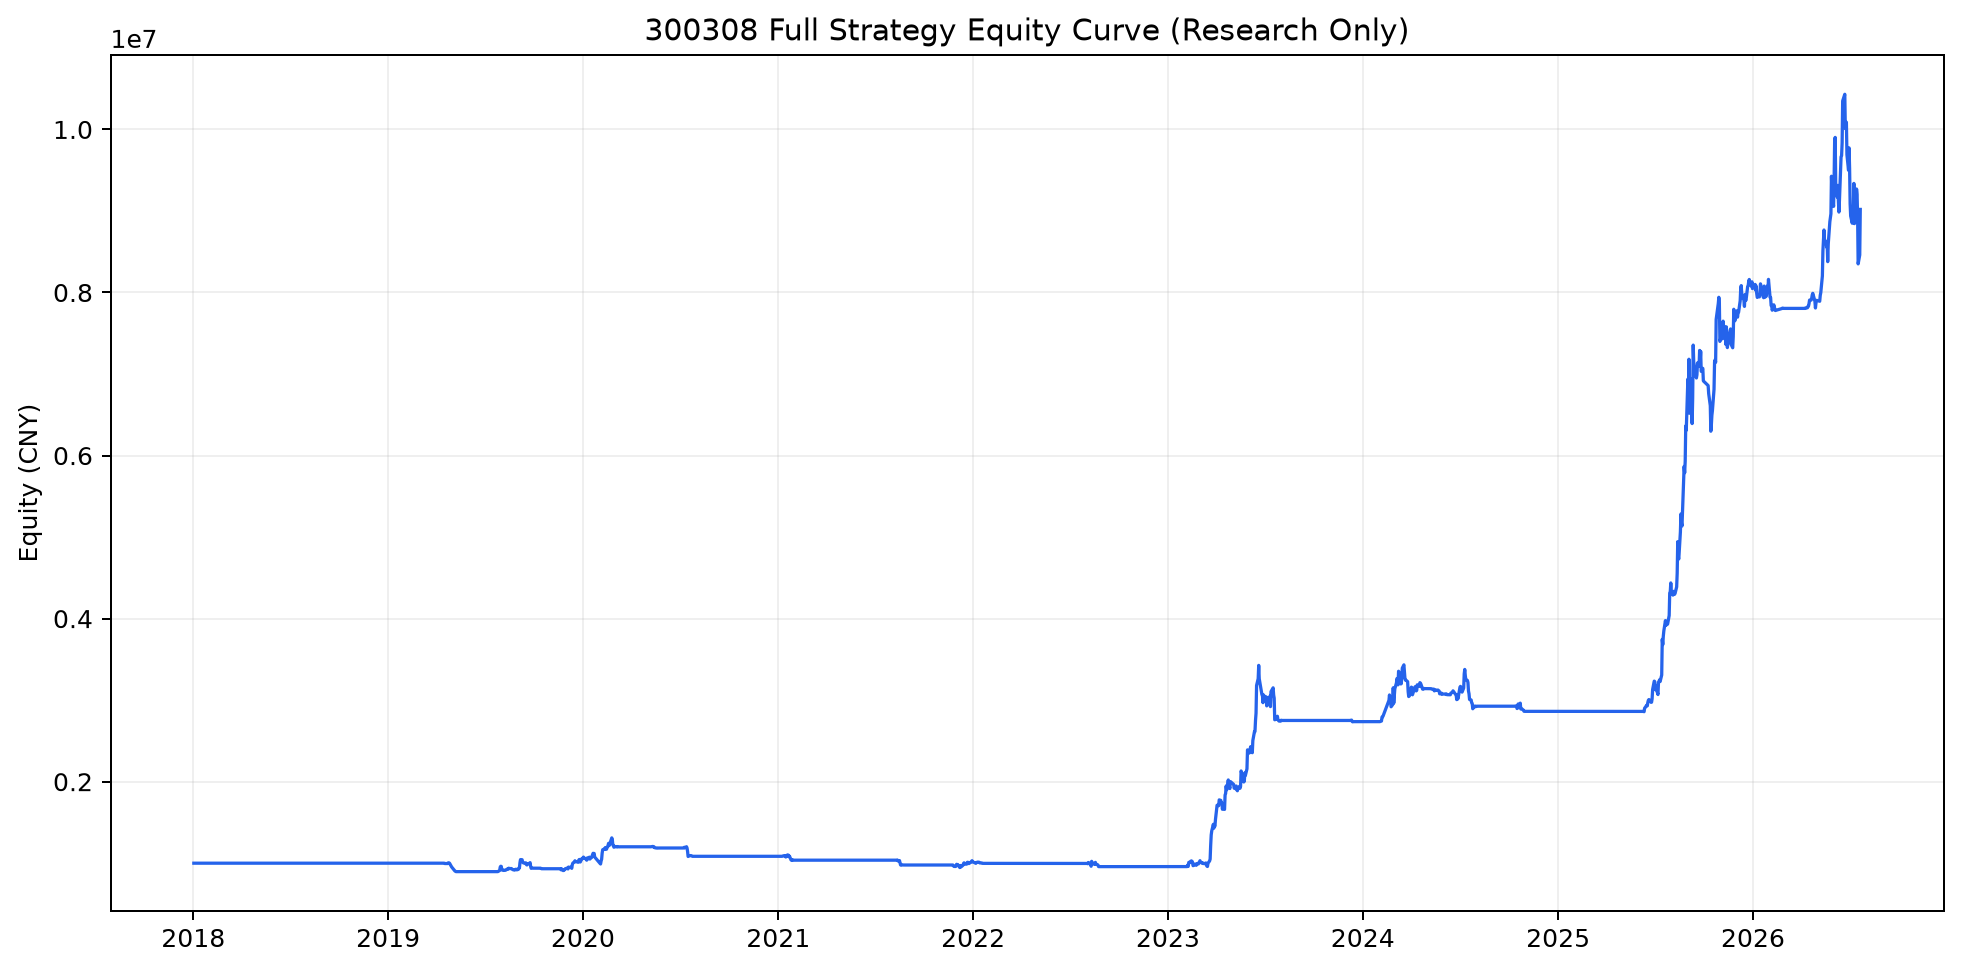
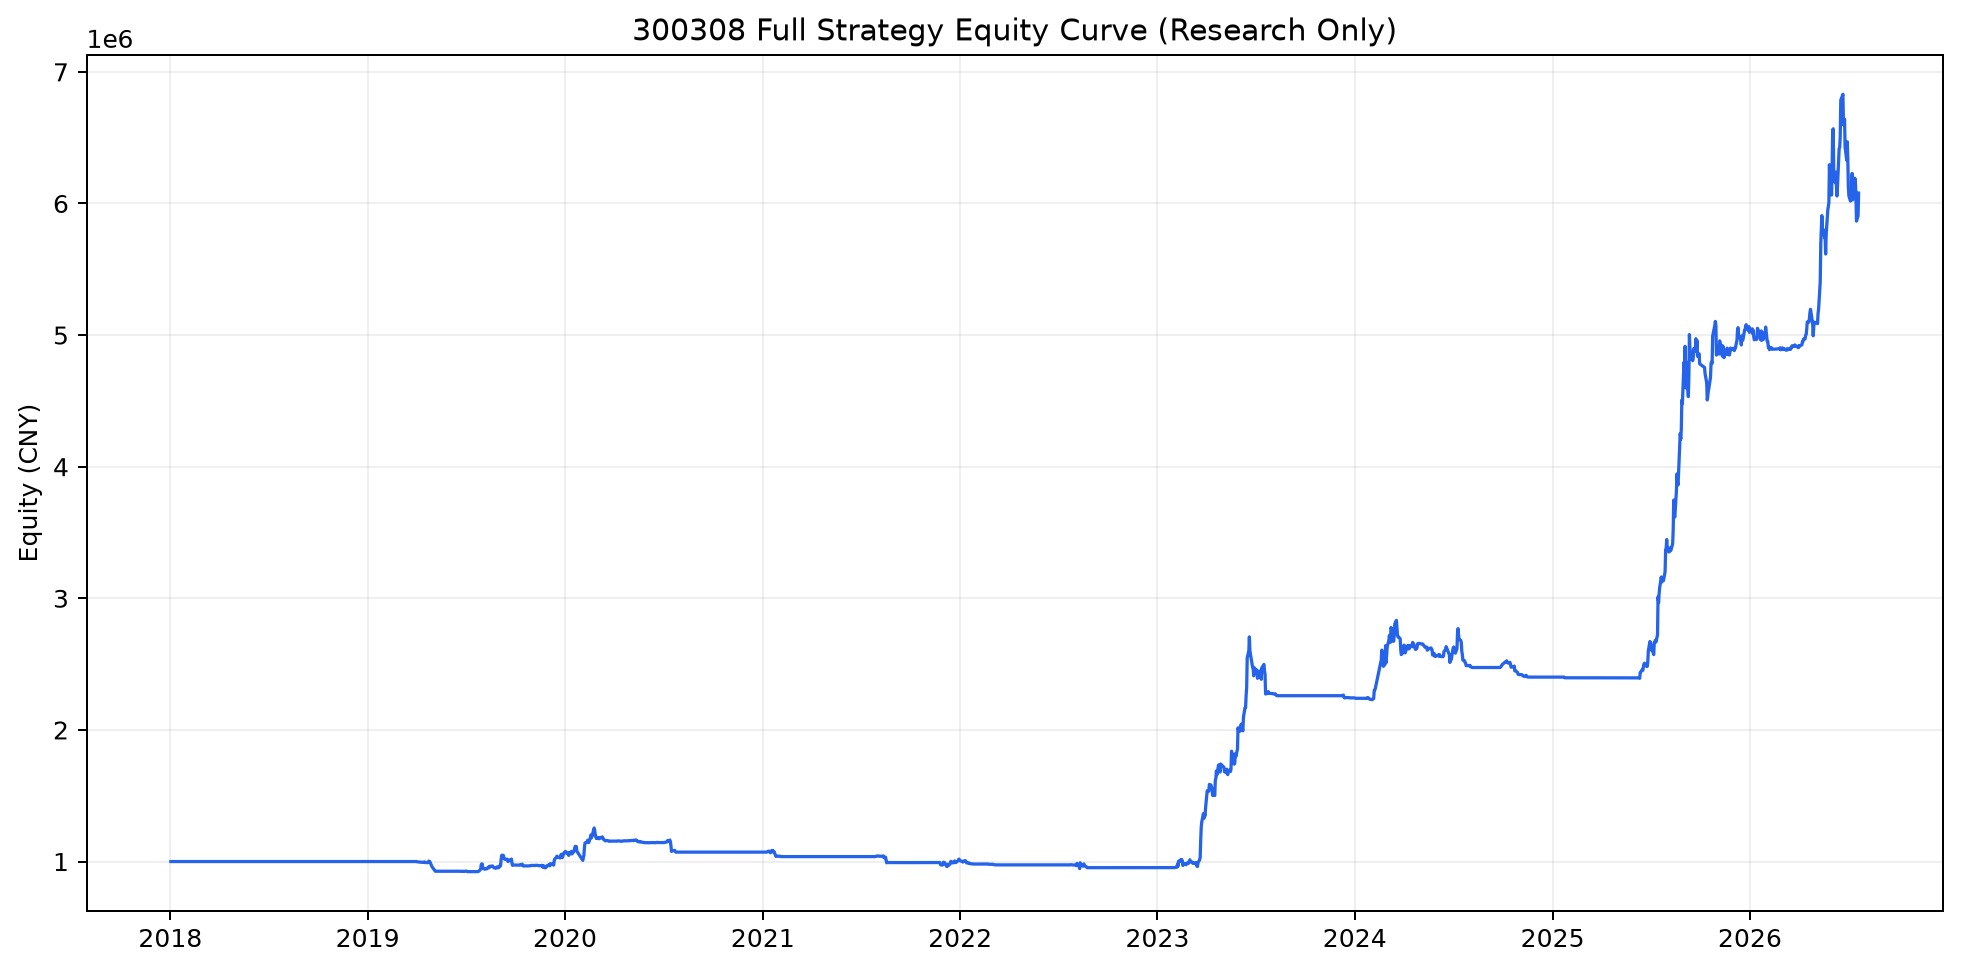
feat: keep minimum observation position

diff --git a/src/ai_market_regime/stock_scoring.py b/src/ai_market_regime/stock_scoring.py
@@ -109,15 +109,25 @@ def _filter_rebalances(targets: pd.Series, threshold: float) -> pd.Series:
     previous = 0.0
     for target in targets.fillna(0.0):
         target_value = float(target)
-        if abs(target_value - previous) >= threshold:
+        if (
+            (previous <= 0.0 < target_value)
+            or (target_value <= 0.0 < previous)
+            or abs(target_value - previous) >= threshold
+        ):
             previous = target_value
         filtered.append(previous)
     return pd.Series(filtered, index=targets.index, dtype=float)
 
 
-def _position_conclusion(position: float, raw_position: float) -> str:
+def _position_conclusion(
+    position: float,
+    raw_position: float,
+    minimum_observation_position: float,
+) -> str:
     if position <= 0:
-        return "空仓/观望"
+        return "极端风险清仓"
+    if position <= minimum_observation_position:
+        return "最低观察仓"
     if position < raw_position:
         return "风险减仓"
     if position <= 0.30:
@@ -136,8 +146,11 @@ def combine_market_and_stock_scores(
 
     frame = market_scores.join(stock_scores, how="left")
     frame["Market_Position_Cap"] = frame["Target_Position"]
+    observation_floor = frame["Market_Position_Cap"].clip(
+        upper=config.minimum_observation_position
+    ).fillna(0.0)
     frame["Raw_Target_Position"] = frame["Market_Position_Cap"].where(
-        frame["Trend_Eligible"].fillna(False), 0.0
+        frame["Trend_Eligible"].fillna(False), observation_floor
     )
     frame["Risk_Adjusted_Position"] = frame["Raw_Target_Position"].fillna(0.0)
 
@@ -145,6 +158,9 @@ def combine_market_and_stock_scores(
     exit_mask = frame["Drawdown60"] <= -config.drawdown_exit_at
     long_trend_exit = frame["close"] < frame["MA120"]
     frame.loc[reduce_mask, "Risk_Adjusted_Position"] *= config.drawdown_reduced_multiplier
+    frame["Risk_Adjusted_Position"] = frame["Risk_Adjusted_Position"].clip(
+        lower=observation_floor
+    )
     frame.loc[exit_mask | long_trend_exit, "Risk_Adjusted_Position"] = 0.0
     frame["Risk_Adjusted_Position"] = frame["Risk_Adjusted_Position"].clip(
         0.0, config.max_target_position
@@ -159,7 +175,11 @@ def combine_market_and_stock_scores(
     risk_rule.loc[exit_mask] = "60日回撤清仓"
     frame["Risk_Rule"] = risk_rule
     frame["Position_Conclusion"] = [
-        _position_conclusion(float(position), float(raw))
+        _position_conclusion(
+            float(position),
+            float(raw),
+            config.minimum_observation_position,
+        )
         for position, raw in zip(
             frame["Final_Target_Position"], frame["Raw_Target_Position"].fillna(0.0)
         )

diff --git a/tests/test_scoring.py b/tests/test_scoring.py
@@ -15,9 +15,10 @@ from ai_market_regime.stock_scoring import build_stock_scores, combine_market_an
 
 
 def test_position_boundaries_and_single_stock_cap():
-    scores = pd.Series([75.0, 74.9, 60.0, 59.9, 45.0, 44.9, np.nan])
-    pd.testing.assert_series_equal(regime_cap_from_score(scores), pd.Series([1.0, 0.7, 0.7, 0.3, 0.3, 0.0, np.nan]))
-    pd.testing.assert_series_equal(position_from_score(scores, maximum=0.8), pd.Series([0.8, 0.7, 0.7, 0.3, 0.3, 0.0, np.nan]))
+    scores = pd.Series([75.0, 74.9, 60.0, 59.9, 45.0, 44.9, 30.0, 29.9, np.nan])
+    expected = pd.Series([0.65, 0.50, 0.50, 0.25, 0.25, 0.10, 0.10, 0.05, np.nan])
+    pd.testing.assert_series_equal(regime_cap_from_score(scores), expected)
+    pd.testing.assert_series_equal(position_from_score(scores), expected)
 
 
 def test_rolling_percentile_uses_trailing_values():
@@ -42,7 +43,7 @@ def test_scores_are_bounded_and_recent_listing_is_supported():
     valid = scores["AI_SCORE"].dropna()
     assert not valid.empty
     assert valid.between(0, 100).all()
-    assert scores["Target_Position"].dropna().between(0, 0.8).all()
+    assert scores["Target_Position"].dropna().between(0.05, 0.65).all()
     assert pd.notna(scores.loc[index[60], "AI_Return20"])
 
 
@@ -167,7 +168,11 @@ def test_stock_score_has_five_bounded_components_and_trend_confirmation():
 
 def test_stock_confirmation_and_drawdown_never_exceed_market_cap():
     index = pd.bdate_range("2024-01-02", periods=3)
-    config = SystemConfig(stock_minimum_score=55, rebalance_threshold=0.10)
+    config = SystemConfig(
+        stock_minimum_score=55,
+        rebalance_threshold=0.10,
+        max_target_position=0.80,
+    )
     market = pd.DataFrame({"Target_Position": [0.8, 0.8, 0.8]}, index=index)
     stock = pd.DataFrame(
         {
@@ -185,7 +190,7 @@ def test_stock_confirmation_and_drawdown_never_exceed_market_cap():
     assert result.iloc[-1]["Risk_Rule"] == "60日回撤清仓"
 
 
-def test_failed_stock_trend_forces_zero_position_even_in_strong_market():
+def test_failed_stock_trend_keeps_observation_position_until_hard_exit():
     index = pd.bdate_range("2024-01-02", periods=2)
     config = SystemConfig()
     market = pd.DataFrame({"Target_Position": [0.8, 0.8]}, index=index)
@@ -200,8 +205,8 @@ def test_failed_stock_trend_forces_zero_position_even_in_strong_market():
         index=index,
     )
     result = combine_market_and_stock_scores(market, stock, config)
-    assert result["Final_Target_Position"].eq(0.0).all()
-    assert result["Position_Conclusion"].eq("空仓/观望").all()
+    assert result["Final_Target_Position"].eq(0.05).all()
+    assert result["Position_Conclusion"].eq("最低观察仓").all()
 
 
 def _backtest_config(**overrides):

diff --git a/src/ai_market_regime/research.py b/src/ai_market_regime/research.py
@@ -16,7 +16,11 @@ def _filter_targets(targets: pd.Series, threshold: float) -> pd.Series:
     previous = 0.0
     for value in targets.fillna(0.0):
         target = float(value)
-        if abs(target - previous) >= threshold:
+        if (
+            (previous <= 0.0 < target)
+            or (target <= 0.0 < previous)
+            or abs(target - previous) >= threshold
+        ):
             previous = target
         result.append(previous)
     return pd.Series(result, index=targets.index, dtype=float)
@@ -31,8 +35,14 @@ def positions_for_config(frame: pd.DataFrame, config: SystemConfig) -> pd.DataFr
         & (result["close"] > result["MA60"])
         & (result["MA20"] > result["MA60"])
     )
-    target = result["Market_Position_Cap"].where(eligible, 0.0).fillna(0.0)
+    observation_floor = result["Market_Position_Cap"].clip(
+        upper=config.minimum_observation_position
+    ).fillna(0.0)
+    target = result["Market_Position_Cap"].where(
+        eligible, observation_floor
+    ).fillna(0.0)
     target.loc[result["Drawdown60"] <= -config.drawdown_reduce_at] *= config.drawdown_reduced_multiplier
+    target = target.clip(lower=observation_floor)
     target.loc[
         (result["Drawdown60"] <= -config.drawdown_exit_at)
         | (result["close"] < result["MA120"])

diff --git a/src/ai_market_regime/scoring.py b/src/ai_market_regime/scoring.py
@@ -23,22 +23,22 @@ def rolling_percentile(series: pd.Series, window: int, min_periods: int) -> pd.S
 
 def regime_cap_from_score(score: pd.Series) -> pd.Series:
     values = np.select(
-        [score >= 75, score >= 60, score >= 45],
-        [1.00, 0.70, 0.30],
-        default=0.00,
+        [score >= 75, score >= 60, score >= 45, score >= 30],
+        [0.65, 0.50, 0.25, 0.10],
+        default=0.05,
     )
     return pd.Series(values, index=score.index, dtype=float).where(score.notna())
 
 
-def position_from_score(score: pd.Series, maximum: float = 0.80) -> pd.Series:
+def position_from_score(score: pd.Series, maximum: float = 0.65) -> pd.Series:
     return regime_cap_from_score(score).clip(upper=maximum)
 
 
 def regime_from_score(score: pd.Series) -> pd.Series:
     values = np.select(
-        [score >= 75, score >= 60, score >= 45],
-        ["强风险偏好", "正常", "谨慎"],
-        default="防御",
+        [score >= 75, score >= 60, score >= 45, score >= 30],
+        ["积极持有", "正常持有", "防御持有", "谨慎观察"],
+        default="最低观察仓",
     )
     return pd.Series(values, index=score.index, dtype="object").where(score.notna())
 

diff --git a/src/ai_market_regime/config.py b/src/ai_market_regime/config.py
@@ -28,7 +28,8 @@ class SystemConfig:
     max_order_value_cny: float = 200_000.0
     max_daily_turnover_ratio: float = 0.35
     transaction_cost_bps: float = 10.0
-    max_target_position: float = 0.80
+    max_target_position: float = 0.65
+    minimum_observation_position: float = 0.05
     stock_minimum_score: float = 55.0
     breakout_days: int = 120
     atr_days: int = 20

diff --git a/README.md b/README.md
@@ -31,12 +31,13 @@
 | QQQ趋势 | 20% | 大型成长股风险偏好 |
 | 利率环境 | 15% | 美国10年期收益率20日变化的反向百分位 |
 
-| AI_SCORE | 市场状态 | 市场上限 | 单票最终上限 |
-|---:|---|---:|---:|
-| >=75 | 强风险偏好 | 100% | 80% |
-| 60—74.9 | 正常 | 70% | 70% |
-| 45—59.9 | 谨慎 | 30% | 30% |
-| <45 | 防御 | 0% | 0% |
+| AI_SCORE | 市场状态 | 中际旭创仓位上限 |
+|---:|---|---:|
+| >=75 | 积极持有 | 65% |
+| 60—74.9 | 正常持有 | 50% |
+| 45—59.9 | 防御持有 | 25% |
+| 30—44.9 | 谨慎观察 | 10% |
+| <30 | 最低观察仓 | 5% |
 
 ### 第二层：STOCK_SCORE
 
@@ -48,7 +49,7 @@
 | 突破 | 15 | 收盘价相对120日最高价的位置 |
 | 风险质量 | 15 | ATR波动百分位与60日回撤 |
 
-只有`STOCK_SCORE >= 55`、收盘价高于MA60且MA20高于MA60时，才允许使用第一层给出的市场仓位。60日回撤达到15%减半，达到22%或跌破MA120清仓；持仓后还执行3倍ATR追踪止损。
+当`STOCK_SCORE >= 55`、收盘价高于MA60且MA20高于MA60时，使用第一层给出的市场仓位；普通弱势或个股趋势未确认时保留不超过5%的最低观察仓。60日回撤达到15%减仓但不低于观察仓，达到22%或跌破MA120时执行极端风险清仓；持仓后还执行3倍ATR追踪止损。
 
 ## 数据准备
 